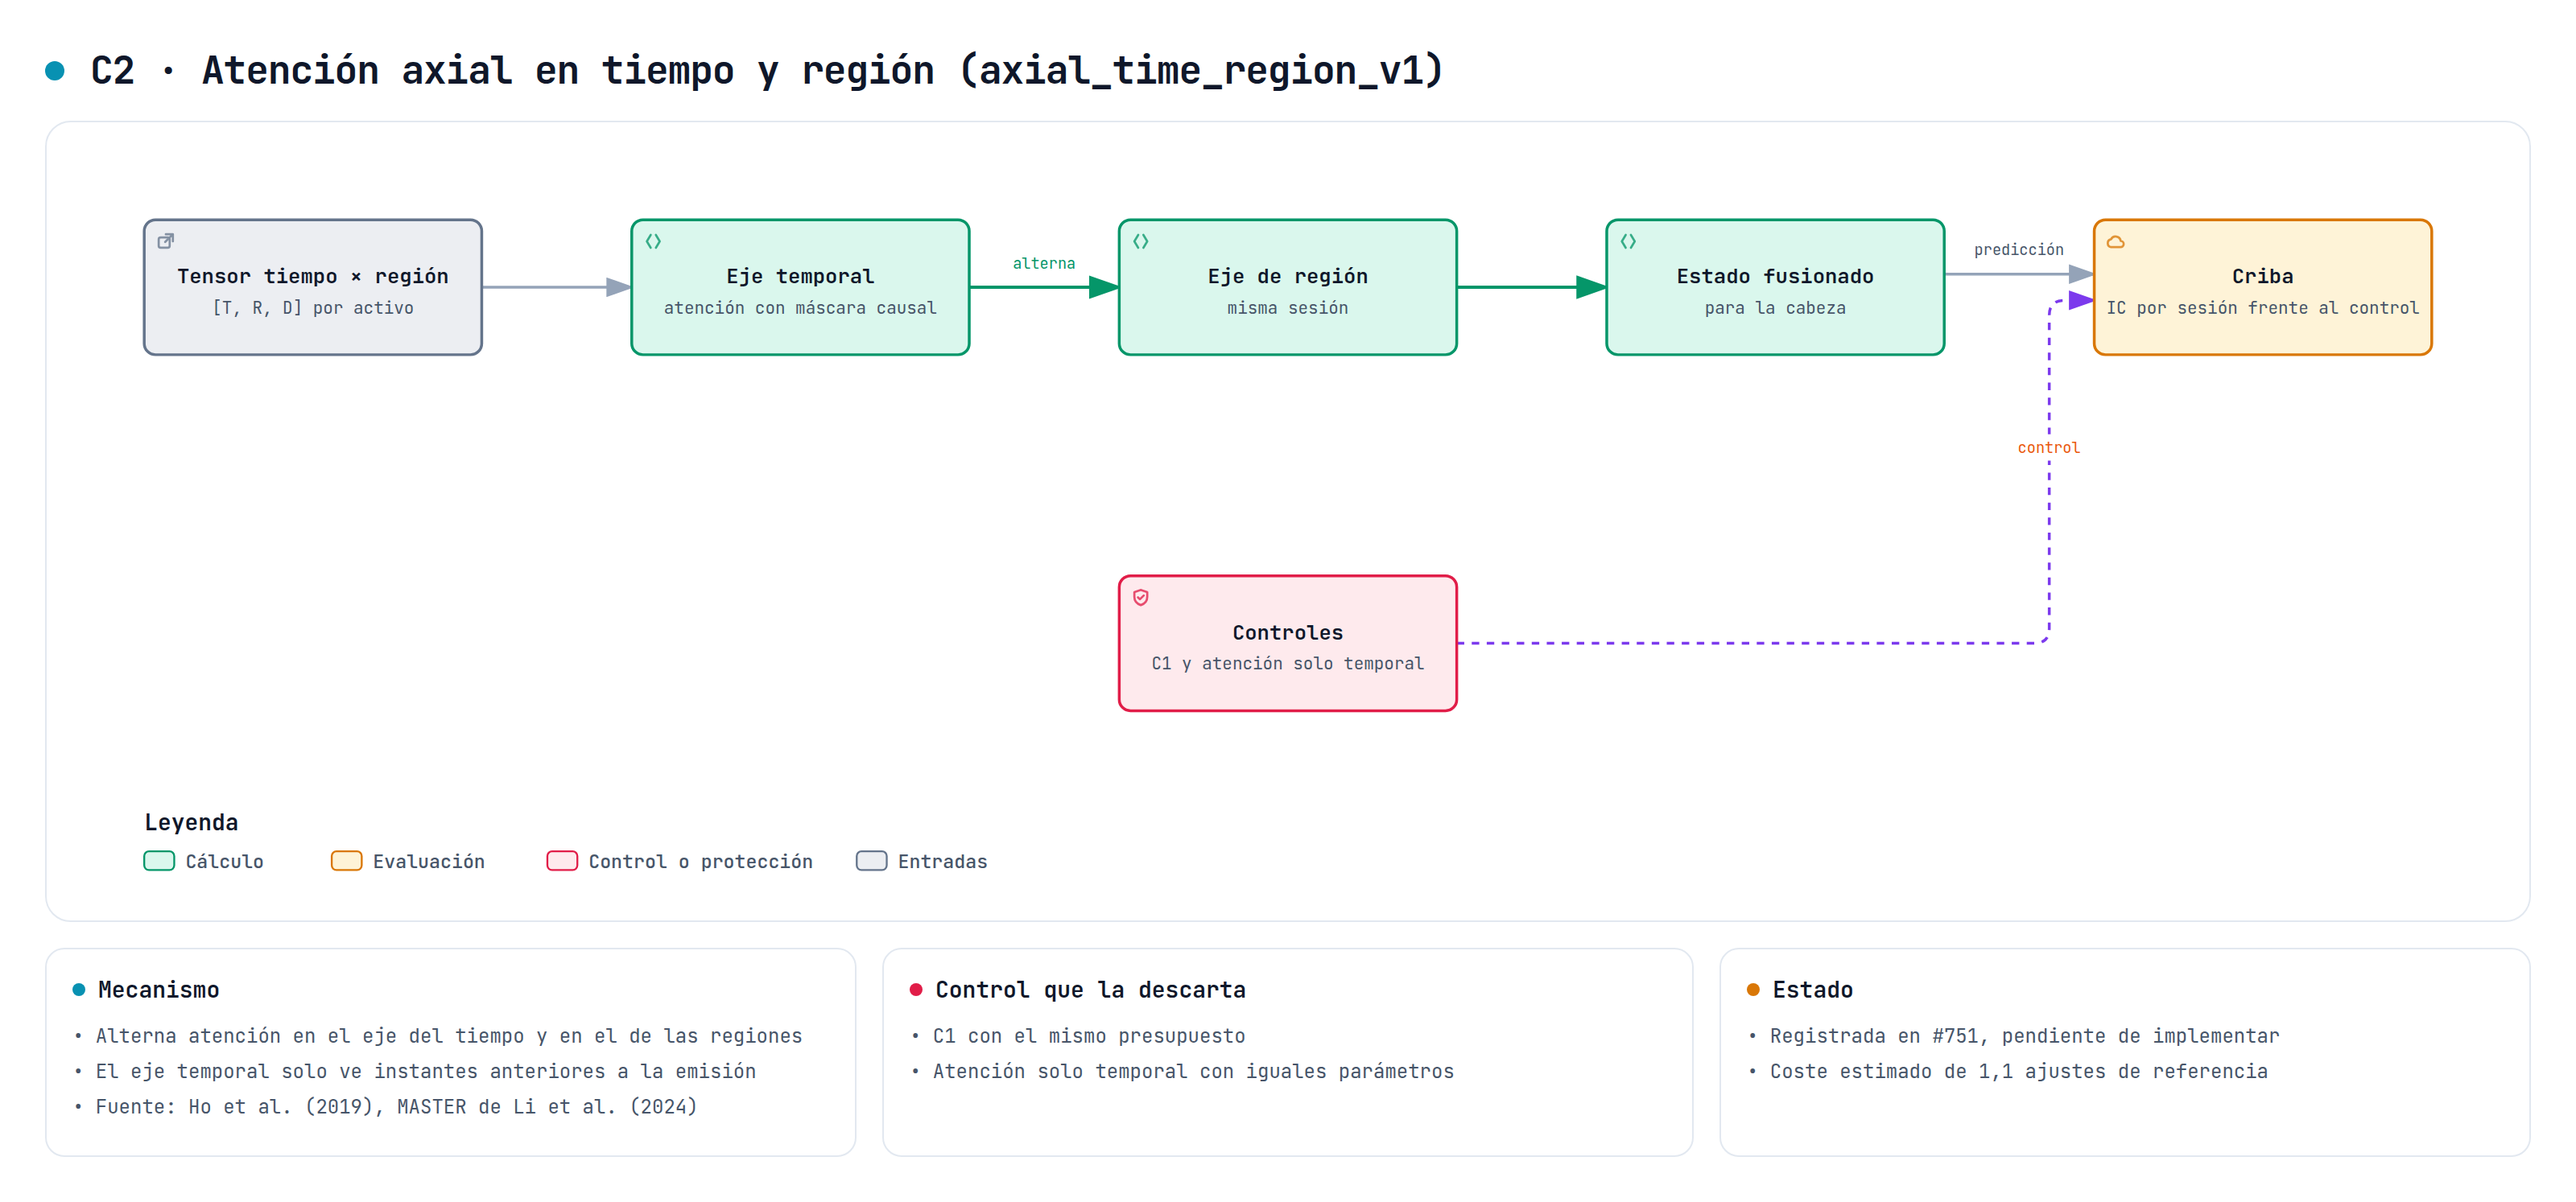
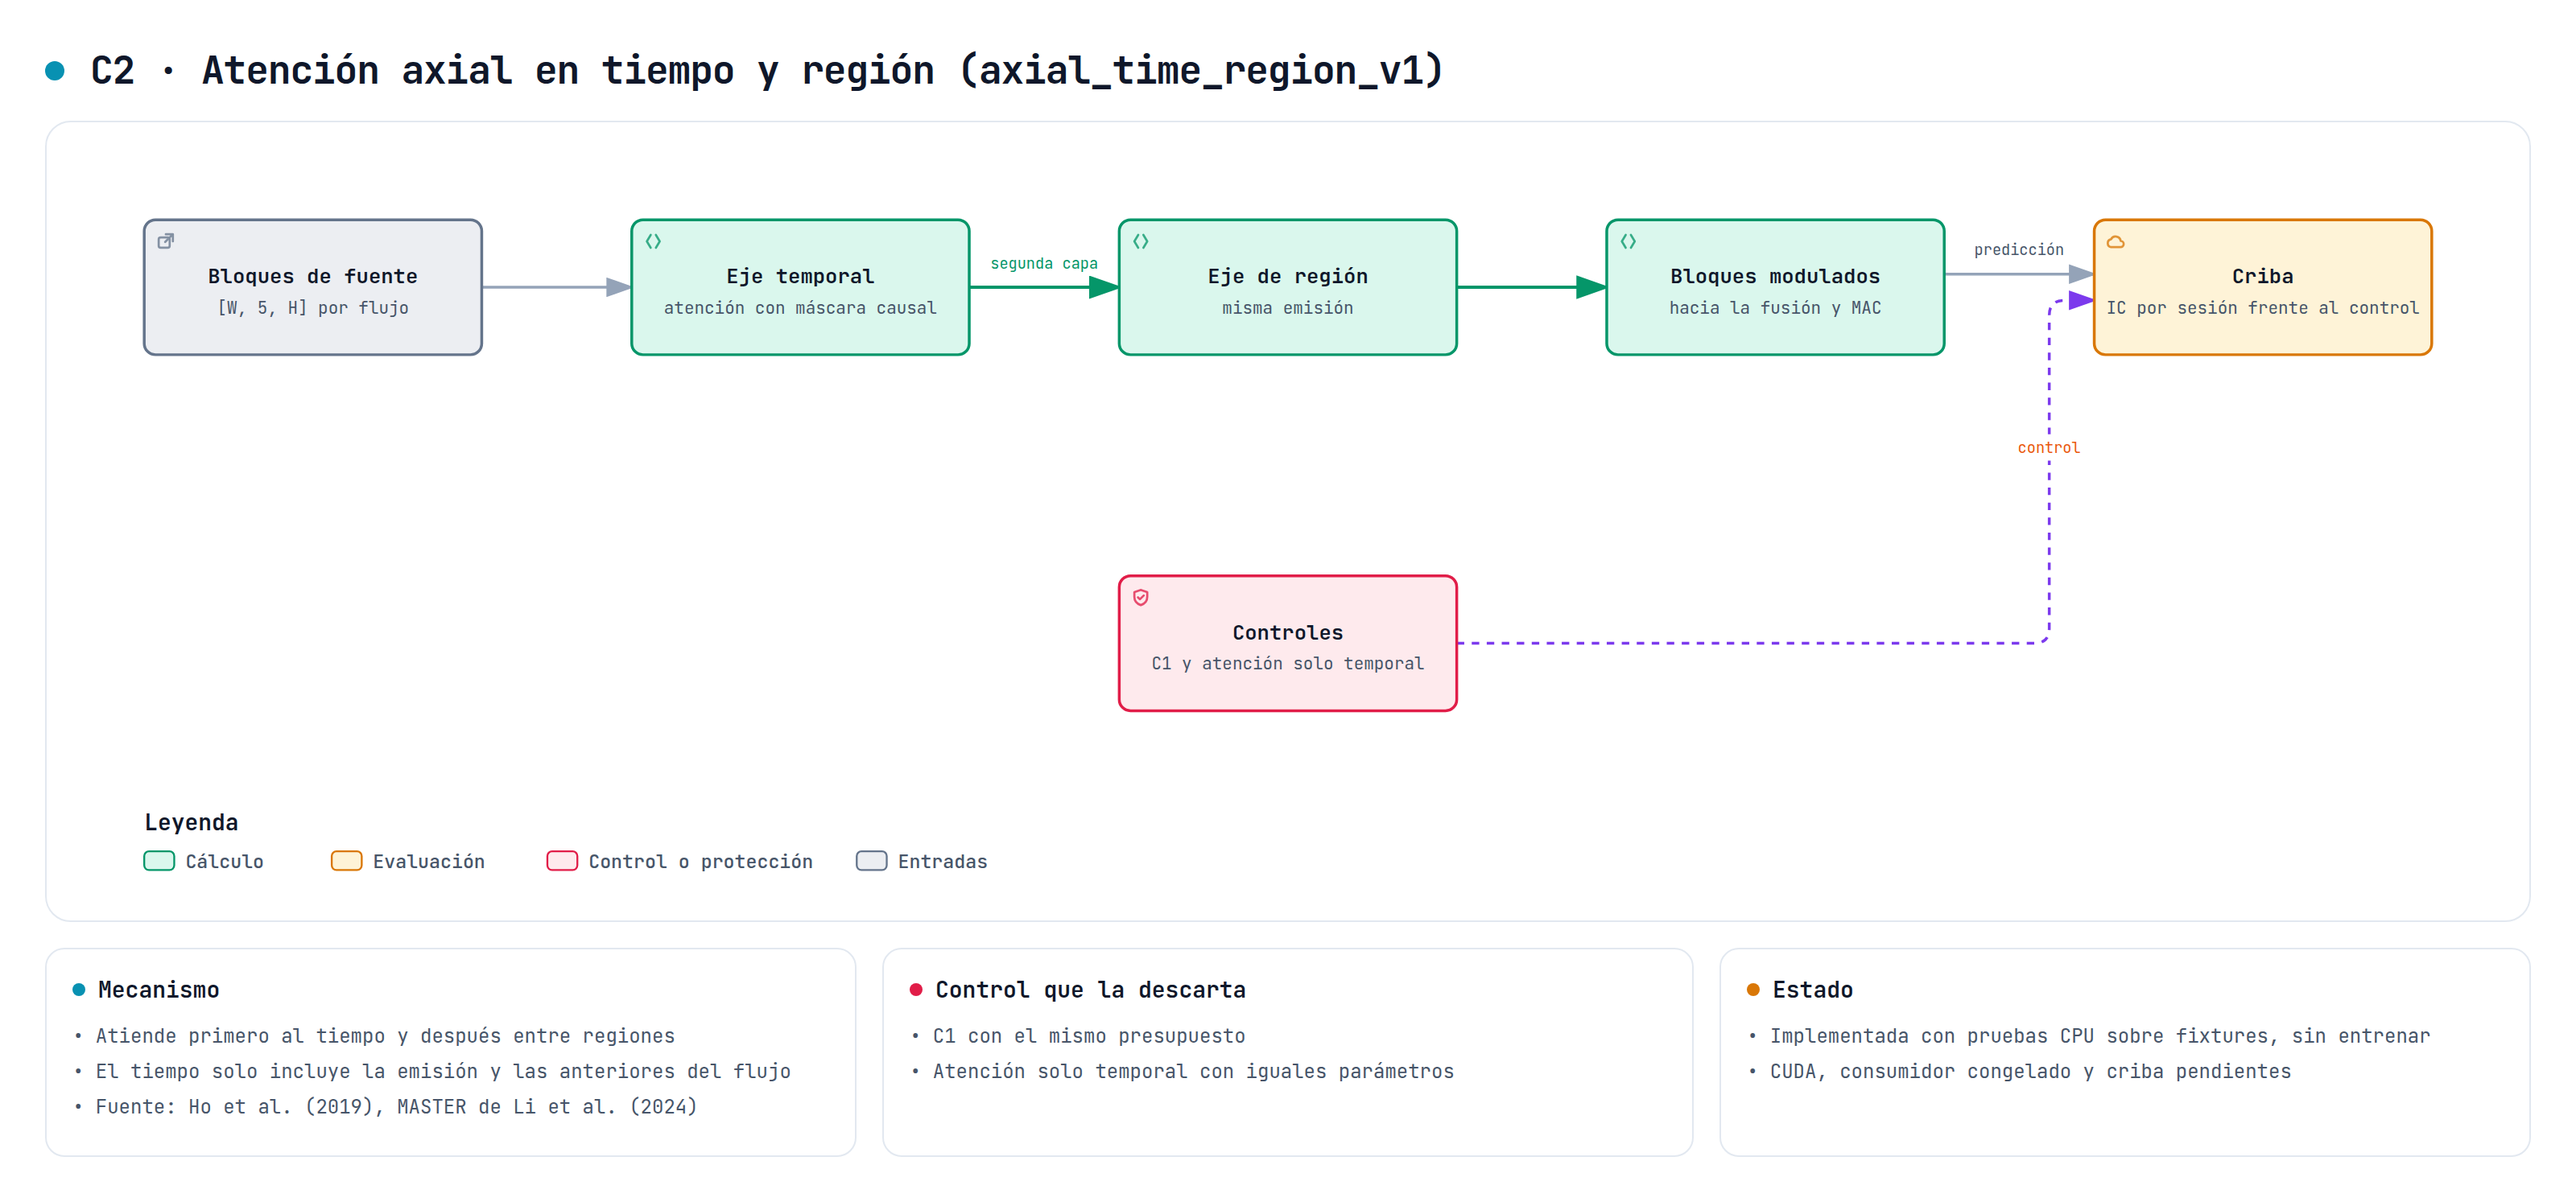
docs(diagrams): show the implemented axial attention C2 in its diagram and the README

diff --git a/README.md b/README.md
@@ -74,6 +74,8 @@ Los [árbitros en línea](docs/experiments/online-arbiters-v1.md) reparten la co
 
 La [red de redes holográfica H1](docs/experiments/holographic-network-v1.md) lee cada bloque de la fusión desde varias áreas a la vez, con una pertenencia que parte de las familias del catálogo macro y contable, ajustes de rango bajo por área y ranuras ocultas al estilo de Soft MoE, y comunica las áreas con el calendario del puente regional. Sus ablaciones H2 y H3 retiran la pertenencia aprendida y las áreas del catálogo. Solo está implementado el nivel de la fila. Está desactivada por defecto, comprobada en CPU con su [recibo de verificación](reports/engineering/holographic-network-20261028/verification.json) y su coste medido, y no se ha entrenado.
 
+La [atención axial C2](docs/experiments/axial-time-region-v1.md) guarda en el estado de cada flujo los bloques de fuente de sus siete emisiones anteriores y, antes de la fusión, atiende primero a lo largo del tiempo de cada región y después entre las regiones de la emisión actual, como la atención axial enmascarada de Ho et al. y la alternancia de MASTER. Su control `time_only_attention_v1` tiene los mismos parámetros y vuelve a leer el tiempo en lugar de mezclar regiones. Está desactivada por defecto, comprobada en CPU con su [recibo de verificación](reports/engineering/axial-time-region-20261028/verification.json) y su coste medido, y no se ha entrenado.
+
 Las [intervenciones declaradas sobre el puente](docs/experiments/regional-bridge-interventions-v1.md) separan retirada de lectores y corte de conexiones. Sus [controles analíticos y costes](reports/engineering/regional-bridge-interventions-20261022/README.md) incluyen cooperación, interferencia, cancelación, recuperación nativa y cargas de hasta 256 filas. El control activo conserva el resultado exacto de J2. Las mediciones mantienen la dispersión entre pasadas y no acreditan aceleración ni mejora financiera.
 
 La [jerarquía episódica fija](docs/experiments/hierarchical-evidence-bridge-v1.md) comunica cuatro vistas del mismo snapshot mediante dos grupos y una raíz, cuyos estados no tienen matrices aprendibles propias. Su [informe técnico](reports/engineering/hierarchical-bridge-20261022/README.md) reúne 685 pruebas seleccionadas, 210 con CUDA, diez mutaciones detectadas y costes con hasta 256 filas. El árbol añade tiempo frente al control plano en la carga mayor. La variante permanece desactivada y no se ha medido su utilidad predictiva.
